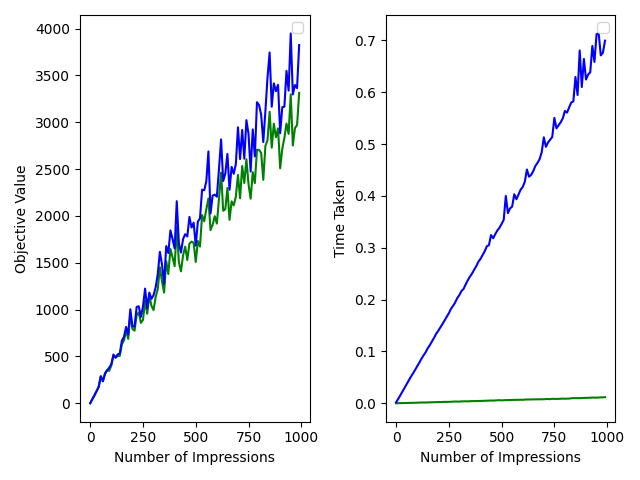
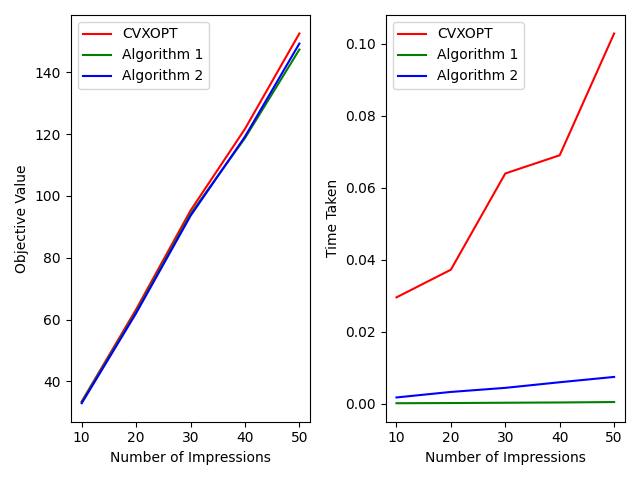
7/19 work

diff --git a/synthetic instances/main.py b/synthetic instances/main.py
@@ -15,13 +15,13 @@ def frange(start, stop, step):
         yield start
         start += step
 
-def createSyntheticInstance(numAdvs, numImps, seed = None):
+def createSyntheticInstance(numAdvs, numImps, seed = None, corruptNum = 0):
     if seed is not None:
         random.seed(seed)
     numTypes = 10
     advsList = []
     for i in range(numAdvs):
-        advsList.append(Advertiser(numTypes, False))
+        advsList.append(Advertiser(numTypes, corruptNum))
     impsList = []
     for i in range(numImps):
         type = random.randint(0, numTypes-1)
@@ -40,18 +40,20 @@ def main():
     optTimeArr, alg1TimeArr, alg2TimeArr = [], [], []
     optObjArr, alg1ObjArr, alg2ObjArr = [], [], []
     numImpsArr = []
-    for count in range(100):
-        numImps = count * 10
-        a, i = createSyntheticInstance(50, numImps) # fixed 10 advs, rand 1-100 imps
+    numImps = 0
+    for loop in range(5):
+        print(loop)
+        numImps += 10
+        a, i = createSyntheticInstance(10, numImps, 1) # fixed 10 advs, rand 1-100 imps
         weights = optimal.createVectorC(a,i)
         # Optimal Algorithm
-        # optSolved, optTimeTaken = (optimal.lpSolve(a,i))
-        # optObj = objectiveValue(optSolved, weights)
-        # optSolvedArr.append(optSolved)
-        # optTimeArr.append(optTimeTaken)
-        # optObjArr.append(optObj)
-        # print("CVXOPT Objective Value:", optObj)
-        # print("Time Taken:", optTimeTaken)
+        optSolved, optTimeTaken = (optimal.lpSolve(a,i))
+        optObj = objectiveValue(optSolved, weights)
+        optSolvedArr.append(optSolved)
+        optTimeArr.append(optTimeTaken)
+        optObjArr.append(optObj)
+        print("CVXOPT Objective Value:", optObj)
+        print("Time Taken:", optTimeTaken)
         # Algorithm 1
         alg1Solved, alg1TimeTaken = alg1.solve(a,i,1)
         alg1Obj = objectiveValue(alg1Solved, weights)
@@ -69,8 +71,8 @@ def main():
         print("Alg2 Objective Value:", alg2Obj)
         print("Time Taken:", alg2TimeTaken)
         # Graphing
-        objArr = [alg1ObjArr[count], alg2ObjArr[count]]
-        timeArr = [alg1TimeArr[count], alg2TimeArr[count]]
+        objArr = [optObjArr[loop], alg1ObjArr[loop], alg2ObjArr[loop]]
+        timeArr = [optTimeArr[loop], alg1TimeArr[loop], alg2TimeArr[loop]]
         impsObjVal[numImps] = objArr
         impsTime[numImps] = timeArr
     numImpsArr = list(impsObjVal.keys())

diff --git a/Synthetic Instances/graph.py b/Synthetic Instances/graph.py
@@ -17,12 +17,12 @@ def graphObjandTimeVsImps(objArr, timeArr, numImpsArr):
     # Make models
     for i in range(len(objArr)):
         #change indexing when using CVXOPT
-        # objArrCVX.append(objArr[i][0])
-        objArrAlg1.append(objArr[i][0])
-        objArrAlg2.append(objArr[i][1])
-        # timeArrCVX.append(timeArr[i][0])
-        timeArrAlg1.append(timeArr[i][0])
-        timeArrAlg2.append(timeArr[i][1])
+        objArrCVX.append(objArr[i][0])
+        objArrAlg1.append(objArr[i][1])
+        objArrAlg2.append(objArr[i][2])
+        timeArrCVX.append(timeArr[i][0])
+        timeArrAlg1.append(timeArr[i][1])
+        timeArrAlg2.append(timeArr[i][2])
  
     # objModelCVX = np.poly1d(np.polyfit(numImpsArr, objArrCVX, 3))
     objModelAlg1= np.poly1d(np.polyfit(numImpsArr, objArrAlg1, 3))
@@ -40,12 +40,12 @@ def graphObjandTimeVsImps(objArr, timeArr, numImpsArr):
     # axis[1].scatter(numImpsArr, timeArrAlg1, c='green', label='Algorithm 1')
     # axis[1].scatter(numImpsArr, timeArrAlg2, c='blue',label='Algorithm 2')
 
-    # axis[0].plot(numImpsArr, objModelCVX(numImpsArr), color='red')
-    axis[0].plot(numImpsArr, objArrAlg1, color='green')
-    axis[0].plot(numImpsArr, objArrAlg2, color='blue')
-    # axis[1].plot(numImpsArr, timeModelCVX(numImpsArr), color='red')
-    axis[1].plot(numImpsArr, timeArrAlg1, color='green')
-    axis[1].plot(numImpsArr, timeArrAlg2, color='blue')
+    axis[0].plot(numImpsArr, objArrCVX, c='red', label="CVXOPT")
+    axis[0].plot(numImpsArr, objArrAlg1, c='green', label='Algorithm 1')
+    axis[0].plot(numImpsArr, objArrAlg2, c='blue', label='Algorithm 2')
+    axis[1].plot(numImpsArr, timeArrCVX, c='red', label='CVXOPT')
+    axis[1].plot(numImpsArr, timeArrAlg1, c='green', label='Algorithm 1')
+    axis[1].plot(numImpsArr, timeArrAlg2, c='blue', label='Algorithm 2')
 
     # Labels
     axis[0].set_xlabel('Number of Impressions')

diff --git a/synthetic instances/advertiser.py b/synthetic instances/advertiser.py
@@ -55,8 +55,6 @@ class Advertiser:
         else:
             return val
 
-
-
     def __str__(self):
         # return "Budget: " + str(self.budget)
         return "vals " + str(self.valuations)

diff --git a/Synthetic Instances/alg1.py b/Synthetic Instances/alg1.py
@@ -1,7 +1,6 @@
 import time
 import numpy as np
 
-
 def removeImpressionWithLowestVal(imps): # helper for algorithm
     for imp in imps:
         val = imp.valWithCurrAdv
